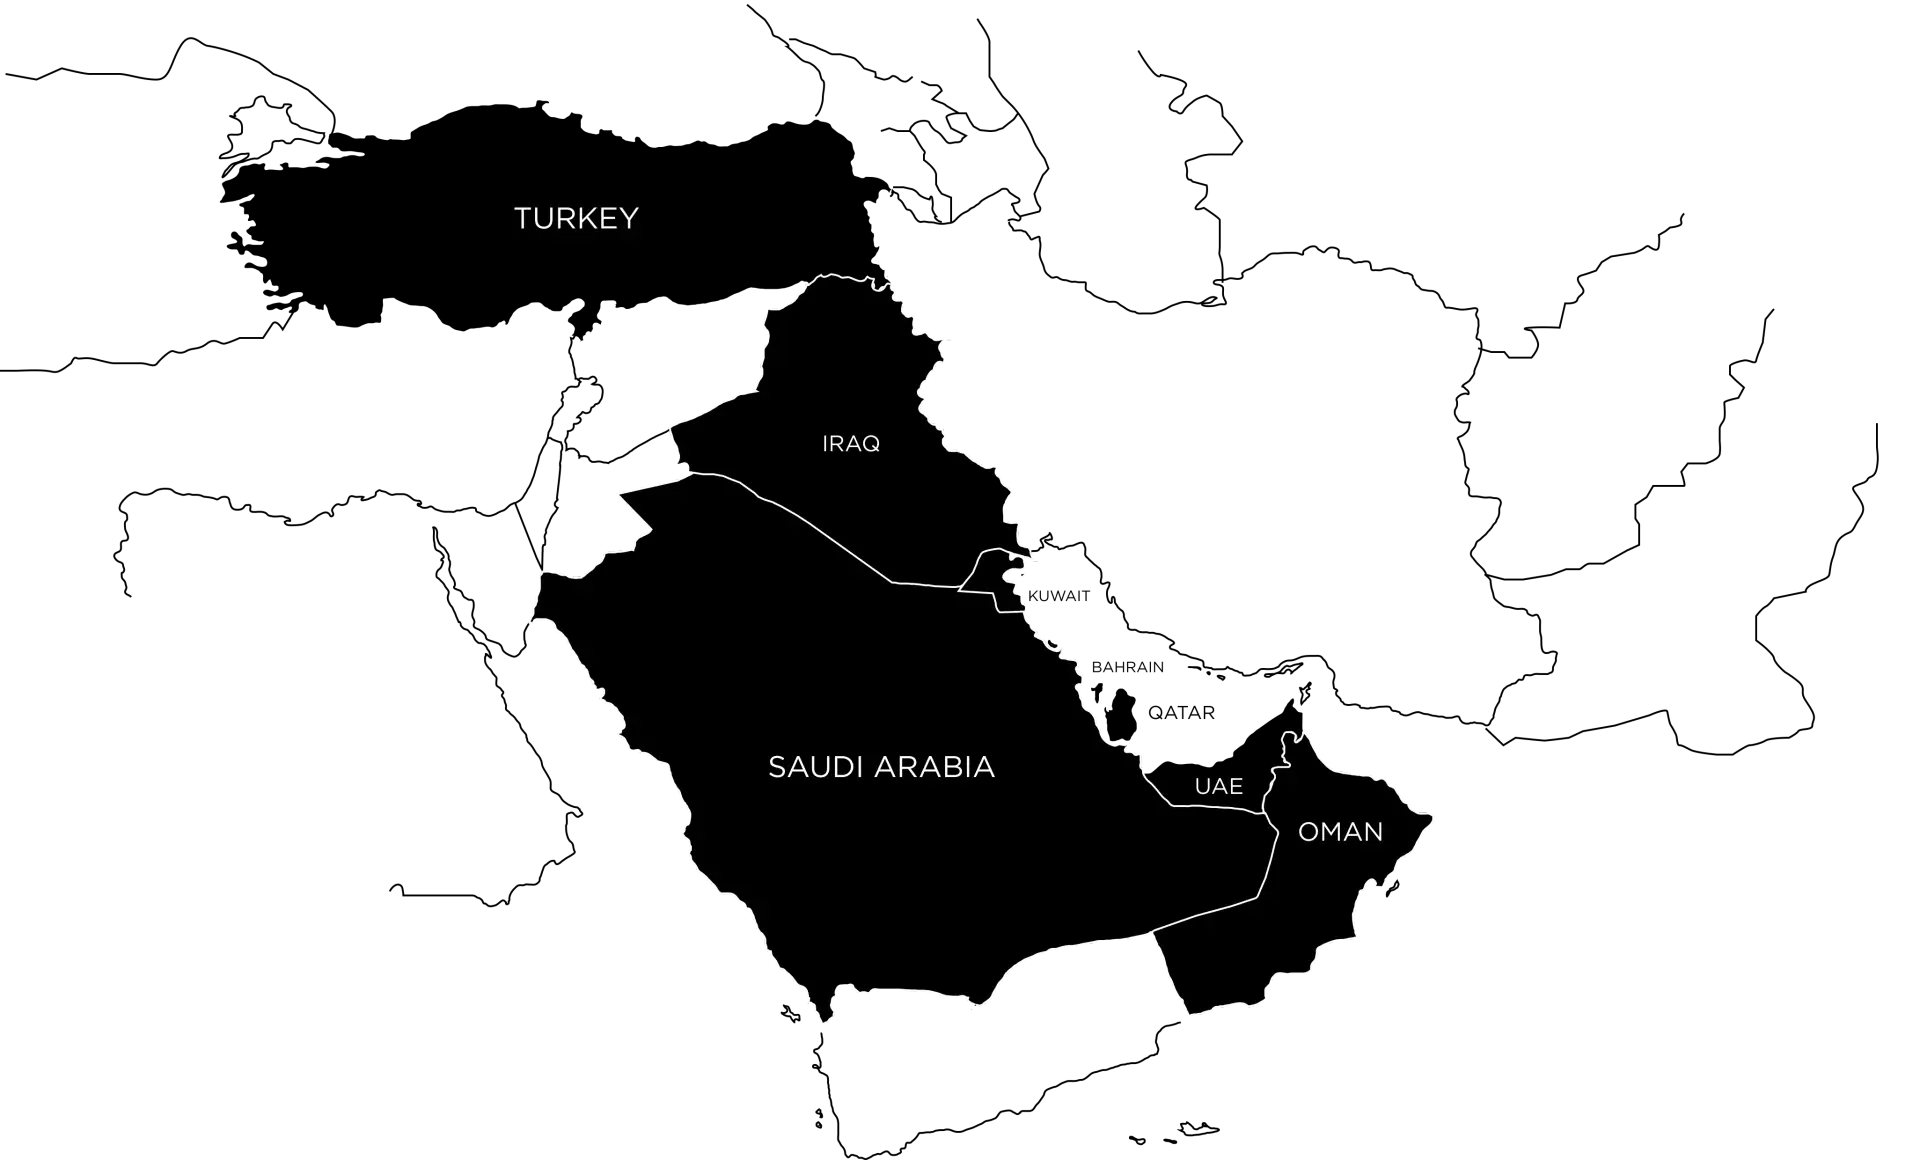
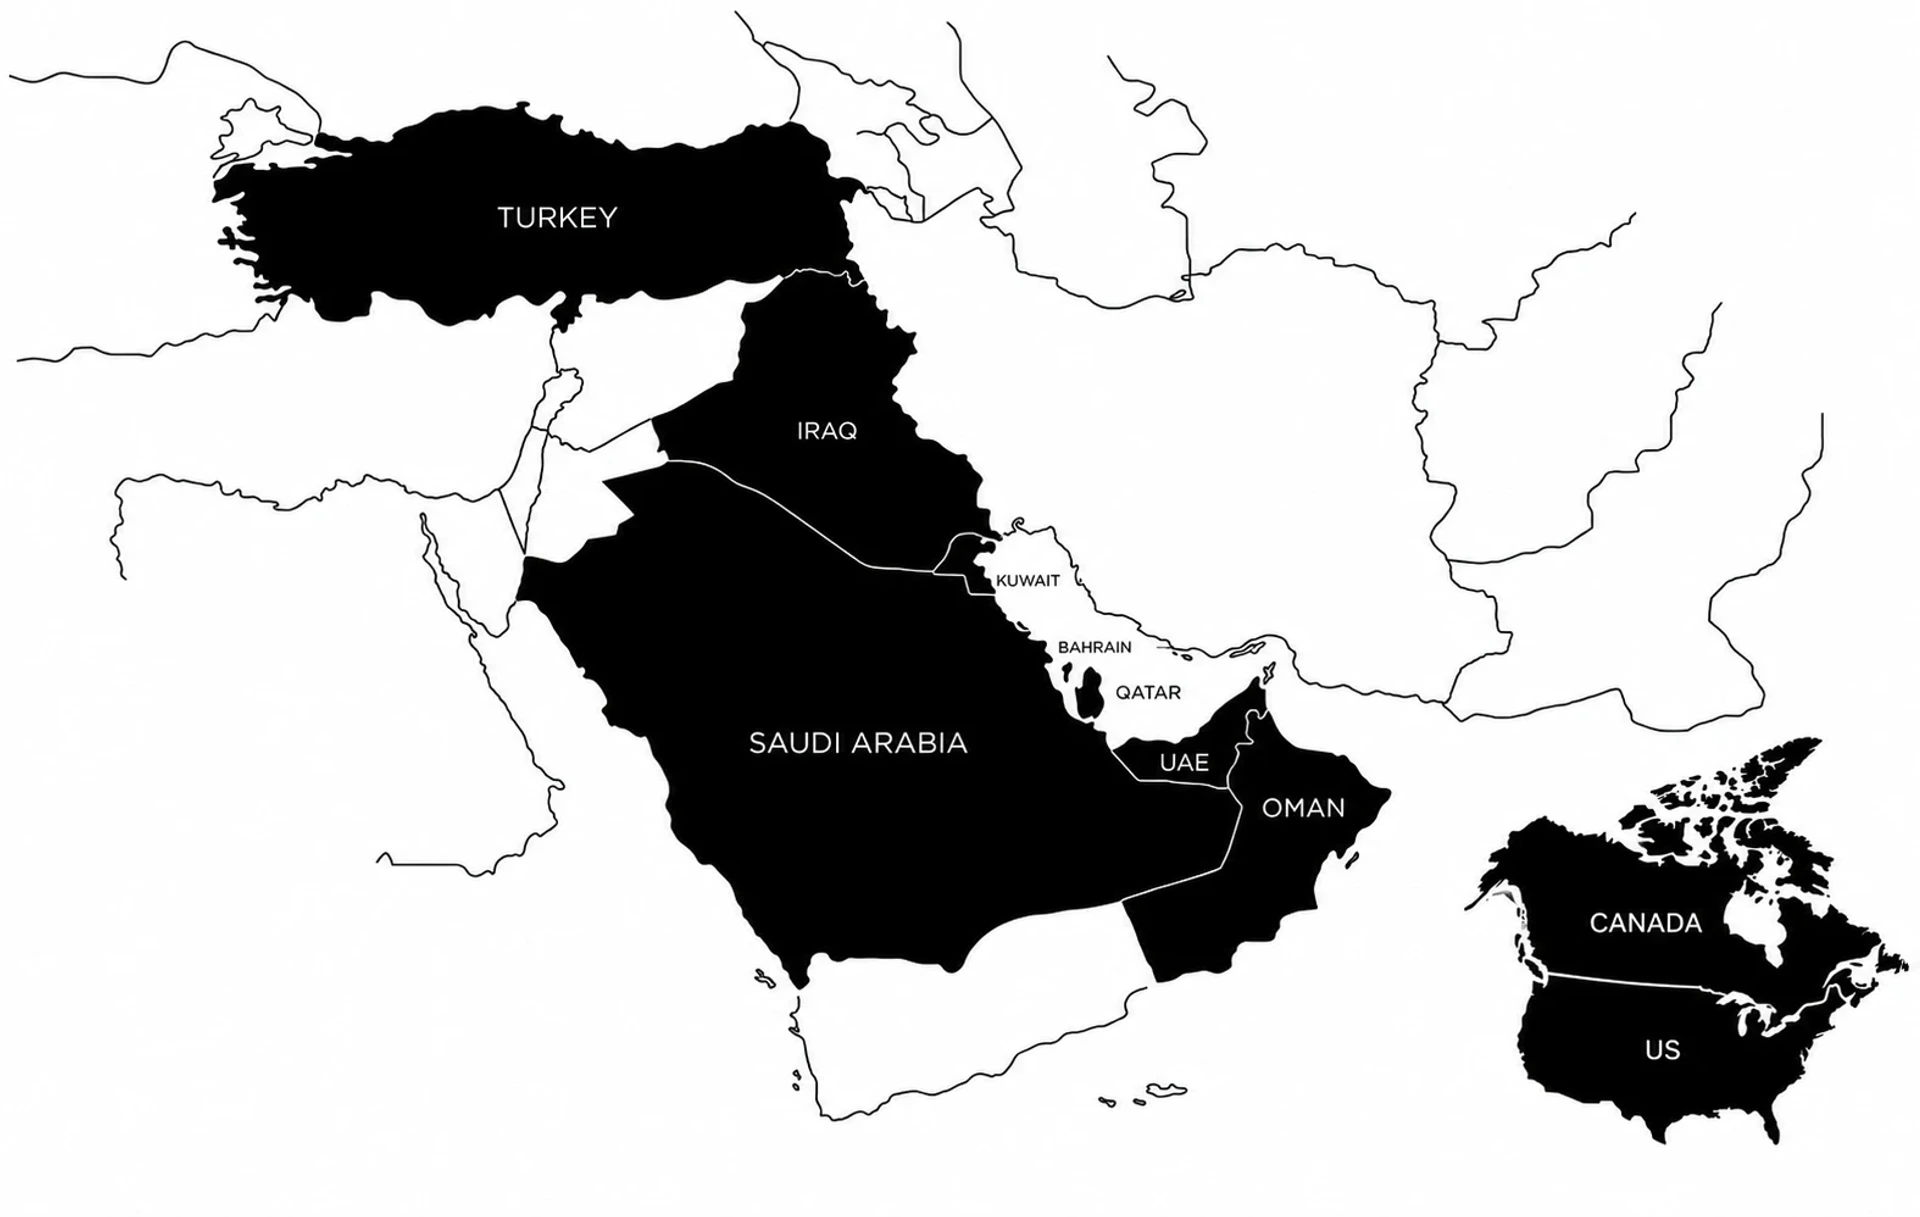
feat: update visual assets and footer interactions

diff --git a/src/shared/components/layout/Footer.jsx b/src/shared/components/layout/Footer.jsx
@@ -20,6 +20,17 @@ function EmailIcon({className = ""}) {
   );
 }
 
+/* The bird is drawn here rather than loaded as a pair of light/dark files: it
+   is one path, and currentColor makes it follow the row's colour in both
+   themes without a second asset to keep in sync. */
+function TwitterIcon({className = ""}) {
+  return (
+    <svg viewBox="0 0 24 24" className={className} fill="currentColor" aria-hidden="true">
+      <path d="M23.953 4.57a10 10 0 0 1-2.825.775 4.958 4.958 0 0 0 2.163-2.723 9.99 9.99 0 0 1-3.127 1.184 4.92 4.92 0 0 0-8.384 4.482C7.691 8.094 4.066 6.13 1.64 3.161a4.822 4.822 0 0 0-.666 2.475c0 1.71.87 3.213 2.188 4.096a4.904 4.904 0 0 1-2.228-.616v.061a4.923 4.923 0 0 0 3.946 4.827 4.996 4.996 0 0 1-2.212.085 4.936 4.936 0 0 0 4.604 3.417 9.867 9.867 0 0 1-6.102 2.105c-.39 0-.779-.023-1.17-.067a13.995 13.995 0 0 0 7.557 2.209c9.054 0 13.999-7.496 13.999-13.986 0-.209 0-.42-.015-.63a9.935 9.935 0 0 0 2.46-2.548z" />
+    </svg>
+  );
+}
+
 const legalLinks = [
   {label: "GDPR", type: "gdpr"},
   {label: "Cookie Policy", type: "cookies"},
@@ -28,10 +39,10 @@ const legalLinks = [
 ];
 
 const footerTextLinkClassName =
-  "inline-flex h-7 w-[92px] items-center justify-center whitespace-nowrap rounded-full px-2 text-center text-[10px] leading-none transition-all duration-300 ease-out hover:-translate-y-1 hover:bg-[#00C965] hover:text-black hover:shadow-[0_10px_24px_rgba(0,201,101,0.34)] active:translate-y-0.5 active:scale-95 sm:w-[108px] sm:text-xs lg:h-8 lg:w-[118px] lg:text-sm";
+  "inline-flex h-7 w-[72px] items-center justify-center whitespace-nowrap rounded-full px-1 text-center text-[9px] leading-none transition-all duration-300 ease-out hover:-translate-y-1 hover:bg-[#00C965] hover:text-black hover:shadow-[0_10px_24px_rgba(0,201,101,0.34)] active:translate-y-0.5 active:scale-95 min-[360px]:w-[90px] min-[360px]:px-1.5 min-[360px]:text-[10px] min-[400px]:w-[100px] sm:w-[108px] sm:px-2 sm:text-xs lg:h-8 lg:w-[118px] lg:text-sm";
 
 const footerIconClassName =
-  "flex size-8 items-center justify-center rounded-full text-current transition-transform duration-300 hover:scale-110 active:scale-95 lg:size-10";
+  "flex size-6 shrink-0 items-center justify-center rounded-full text-current transition-transform duration-300 hover:scale-110 active:scale-95 min-[440px]:size-7 sm:size-8 lg:size-10";
 
 /* "curved" paints the footer with a full-width ellipse and lays the rows over
    it - that is the shape the innotech.global pages use. INLEARN asked for a
@@ -80,7 +91,7 @@ const Footer = ({onContactClick, topSpacingClassName = "", variant = "curved"}) 
           </div>
 
           <div className={`flex items-end justify-between px-6 sm:px-10 lg:px-[125px] ${bottomRowSpacing}`}>
-            <div className={`footer-legal-links grid max-w-[58%] grid-cols-2 place-items-center gap-x-4 gap-y-2 sm:max-w-[54%] sm:gap-x-6 md:max-w-none md:grid-cols-4 md:gap-x-4 md:gap-y-0 lg:gap-x-5 xl:gap-x-6 2xl:gap-x-8 ${textColor}`}>
+            <div className={`footer-legal-links grid grid-cols-2 place-items-center gap-x-1.5 gap-y-2.5 min-[360px]:gap-x-2 min-[400px]:gap-x-3 sm:max-w-[54%] sm:gap-x-6 sm:gap-y-2 md:max-w-none md:grid-cols-4 md:gap-x-4 md:gap-y-0 lg:gap-x-5 xl:gap-x-6 2xl:gap-x-8 ${textColor}`}>
               {legalLinks.map((item) => (
                 <button
                   key={item.type}
@@ -93,13 +104,13 @@ const Footer = ({onContactClick, topSpacingClassName = "", variant = "curved"}) 
               ))}
             </div>
 
-            <div className={`flex gap-3 sm:gap-4 ${textColor}`}>
+            <div className={`flex shrink-0 items-center gap-1 min-[440px]:gap-2 sm:gap-3 lg:gap-4 ${textColor}`}>
               <a
                 href="mailto:Info@innotech.global"
                 className={footerIconClassName}
                 aria-label="Email INNOTECH"
               >
-                <EmailIcon className="size-6 lg:size-8" />
+                <EmailIcon className="size-4 min-[440px]:size-5 sm:size-6 lg:size-8" />
               </a>
               <a
                 href="https://www.linkedin.com/company/innotech-management-consulting-co/"
@@ -108,7 +119,7 @@ const Footer = ({onContactClick, topSpacingClassName = "", variant = "curved"}) 
                 className={footerIconClassName}
                 aria-label="Open INNOTECH on LinkedIn"
               >
-                <img loading="lazy" src={isLightMode ? LinkedInDark : LinkedIn} className="size-6 lg:size-8" alt="" />
+                <img loading="lazy" src={isLightMode ? LinkedInDark : LinkedIn} className="size-4 min-[440px]:size-5 sm:size-6 lg:size-8" alt="" />
               </a>
               <a
                 href="https://wa.me/971543191316"
@@ -117,7 +128,16 @@ const Footer = ({onContactClick, topSpacingClassName = "", variant = "curved"}) 
                 className={footerIconClassName}
                 aria-label="Open WhatsApp chat"
               >
-                <img loading="lazy" src={isLightMode ? WhatsAppDark : WhatsApp} className="size-6 lg:size-8" alt="" />
+                <img loading="lazy" src={isLightMode ? WhatsAppDark : WhatsApp} className="size-4 min-[440px]:size-5 sm:size-6 lg:size-8" alt="" />
+              </a>
+              <a
+                href="https://x.com/Innotechinsight"
+                target="_blank"
+                rel="noreferrer"
+                className={footerIconClassName}
+                aria-label="Open INNOTECH on Twitter"
+              >
+                <TwitterIcon className="size-4 min-[440px]:size-5 sm:size-6 lg:size-8" />
               </a>
             </div>
           </div>

diff --git a/src/features/inlearn/shell/InlearnToast.jsx b/src/features/inlearn/shell/InlearnToast.jsx
@@ -1,4 +1,4 @@
-import {useEffect} from "react";
+import {useEffect, useLayoutEffect, useRef} from "react";
 
 /* Signing in closes the panel, and a panel that simply disappears is a weak
    answer to "did that work?". This says so, from the top of the page, and takes
@@ -6,7 +6,53 @@ import {useEffect} from "react";
 
    role="status" rather than "alert": a screen reader announces it when it
    finishes what it is saying, instead of interrupting. Nothing here is urgent. */
+const MAX_LINES = 2;
+const FONT_MAX_PX = 13;
+const FONT_MIN_PX = 10;
+
 function InlearnToast({message, action, onDismiss, duration = 4000}) {
+  const textRef = useRef(null);
+
+  /* The message is never cut short - a notification that ends in an ellipsis
+     asks the reader to go and find the rest, and the toast is the only place
+     it was. But it cannot run down the page either, so it is given two lines
+     and the type shrinks, a half point at a time, until the words fit in them.
+     Measured rather than guessed, because the same sentence is a different
+     width in every language the site is in.
+
+     useLayoutEffect, so the resize happens in the same frame as the paint and
+     nobody sees the first size. */
+  useLayoutEffect(() => {
+    const node = textRef.current;
+    if (!node || !message) return undefined;
+
+    const fit = () => {
+      let size = FONT_MAX_PX;
+      node.style.fontSize = `${size}px`;
+      const overflows = () => {
+        const lineHeight = parseFloat(window.getComputedStyle(node).lineHeight) || size * 1.35;
+        return node.scrollHeight > lineHeight * MAX_LINES + 1;
+      };
+      while (size > FONT_MIN_PX && overflows()) {
+        size -= 0.5;
+        node.style.fontSize = `${size}px`;
+      }
+    };
+
+    fit();
+    /* Gotham arrives after the first paint; the text is a different width in
+       it than in the fallback, so the fit is taken again once it is there. */
+    let cancelled = false;
+    document.fonts?.ready.then(() => {
+      if (!cancelled) fit();
+    });
+    window.addEventListener("resize", fit);
+    return () => {
+      cancelled = true;
+      window.removeEventListener("resize", fit);
+    };
+  }, [message]);
+
   useEffect(() => {
     if (!message) return undefined;
     const timer = window.setTimeout(onDismiss, duration);
@@ -30,7 +76,7 @@ function InlearnToast({message, action, onDismiss, duration = 4000}) {
           />
         </svg>
       </span>
-      <p>{message}</p>
+      <p ref={textRef}>{message}</p>
 
       {/* One action, and only when there is one to offer. It runs and then
           takes the toast away, because the thing it was offering to undo has

diff --git a/src/styles/inlearn/03-toast.css b/src/styles/inlearn/03-toast.css
@@ -12,9 +12,15 @@
   display: flex;
   align-items: center;
   gap: 12px;
+  /* max-content, then capped: the box takes the width the message would like
+     on one line and no more than the screen allows, so a short message stays a
+     single line and a long one wraps only once it has used the full width.
+     Without it a flex box sizes to its smallest child and a sentence wraps at
+     half the screen with empty space beside it. */
+  width: max-content;
   max-width: min(420px, calc(100vw - 32px));
   padding: 13px 14px 13px 16px;
-  border-radius: 999px;
+  border-radius: 20px;
   background: #0d1a14;
   color: #fff;
   box-shadow: 0 18px 40px rgba(0, 0, 0, 0.26);
@@ -46,14 +52,22 @@
   height: 9px;
 }
 
+/* A notification that is cut off is not a notification: "You have been signed
+   out. Please sign in again t..." tells the reader there is more and then
+   withholds it, and the one place they could read the rest is the toast that
+   just took it away. It wraps instead - the pill grows down, which it has room
+   to do, rather than sideways, which it does not. */
 .inlearn-toast p {
   margin: 0;
-  overflow: hidden;
+  min-width: 0;
+  flex: 1;
+  /* The starting size. The component measures from here and steps down when
+     the words need more than the two lines they are allowed. */
   font-size: 13px;
   font-weight: 600;
-  line-height: 1.3;
-  white-space: nowrap;
-  text-overflow: ellipsis;
+  /* Unitless, so the line box follows whatever size the fit lands on. */
+  line-height: 1.35;
+  overflow-wrap: anywhere;
 }
 
 .inlearn-toast button:not(.inlearn-toast-action) {

diff --git a/src/styles/layout-fixes.css b/src/styles/layout-fixes.css
@@ -5,10 +5,8 @@
   }
 }
 
-@media (min-width: 380px) and (max-width: 450px) {
-  .footer-legal-links {
-    row-gap: 3px;
-    transform: translateY(10px);
-  }
-}
+/* This band used to crush the legal links to a 3px row gap and shove them
+   down, to buy room back from a footer row that had nothing left to give.
+   The row now sizes its pills and its icons by width, so the links have the
+   space without being squeezed into it. */
 
